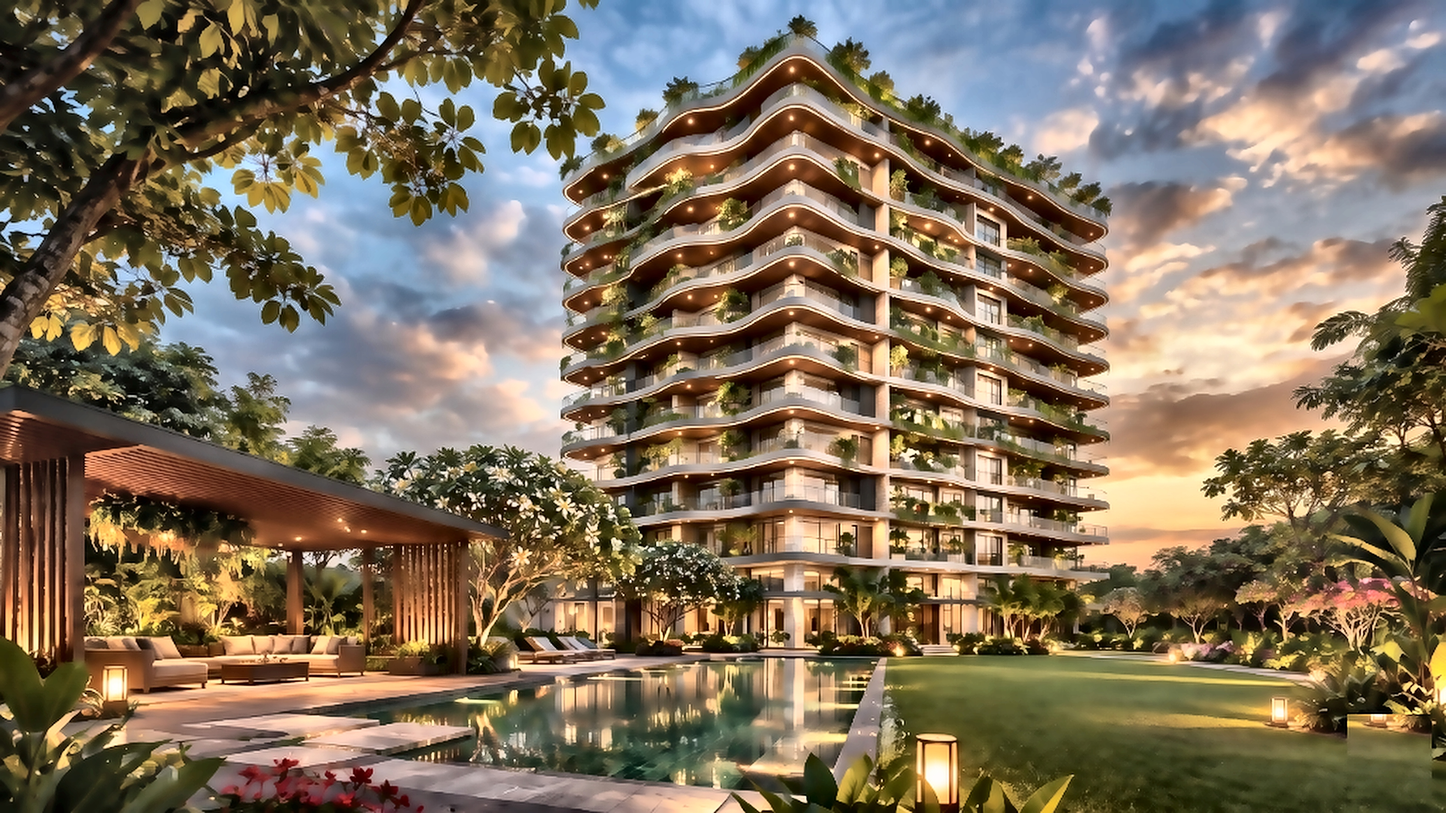
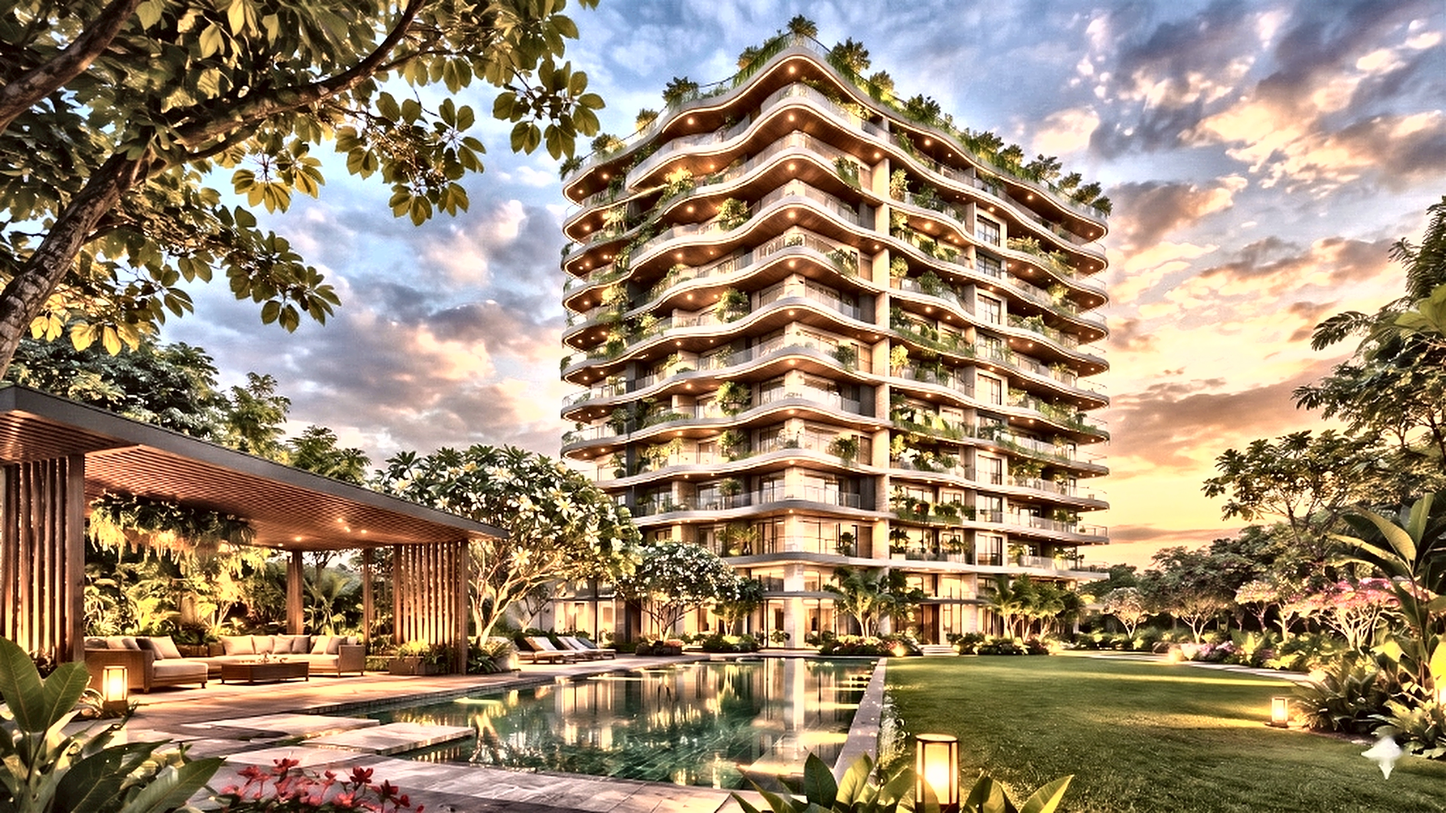
feat: enhance 4K biophilic hero background, perfect mobile alignment, and eliminate texture blur

diff --git a/Frontend/src/pages/Login.tsx b/Frontend/src/pages/Login.tsx
@@ -905,35 +905,37 @@ export default function Login({ onLogin }: LoginProps) {
                 reduceMotion
                   ? { scale: 1, opacity: 1 }
                   : {
-                      scale: [1.0, 1.03, 1.01, 1.035, 1.0],
-                      x: ['0%', '-0.8%', '0.6%', '-0.4%', '0%'],
-                      y: ['0%', '-0.5%', '-0.8%', '-0.2%', '0%'],
+                      scale: [1.0, 1.025, 1.01, 1.02, 1.0],
+                      x: ['0%', '-0.5%', '0.4%', '-0.2%', '0%'],
+                      y: ['0%', '-0.3%', '-0.5%', '-0.1%', '0%'],
                     }
               }
               transition={
                 reduceMotion
                   ? { duration: 0.6 }
                   : {
-                      duration: 28,
+                      duration: 26,
                       repeat: Infinity,
                       ease: 'easeInOut',
                     }
               }
               src={HERO_IMAGE}
               alt="Redhill contemporary biophilic boutique residential community in Bengaluru"
-              className="w-full h-full object-cover object-[center_50%] select-none pointer-events-none"
+              className="w-full h-full object-cover object-[58%_36%] sm:object-[center_50%] select-none pointer-events-none"
               style={{
                 imageRendering: 'auto',
                 WebkitBackfaceVisibility: 'hidden',
                 transform: 'translateZ(0)',
+                willChange: 'transform',
+                transformOrigin: '58% 36%',
               }}
             />
           )}
         </motion.div>
 
-        {/* High-Clarity Architectural Scrim - preserves 8K sharpness, vibrant twilight pool & lush greenery */}
-        <div className="absolute inset-0 z-10 bg-gradient-to-t from-[#0A0B0E]/82 via-[#0A0B0E]/15 to-black/20 pointer-events-none" />
-        <div className="absolute inset-0 z-10 bg-gradient-to-r from-[#0A0B0E]/65 via-transparent to-transparent pointer-events-none" />
+        {/* High-Clarity Bodhi Architectural Scrim - preserves 8K sharpness, radiant twilight sky & glowing pool */}
+        <div className="absolute inset-0 z-10 bg-gradient-to-t from-[#07080A]/82 via-[#07080A]/20 to-black/25 pointer-events-none" />
+        <div className="hidden sm:block absolute inset-0 z-10 bg-gradient-to-r from-[#07080A]/60 via-transparent to-transparent pointer-events-none" />
 
         {/* Top Header Spacer */}
         <div className="h-16 sm:h-20 shrink-0" aria-hidden="true" />
